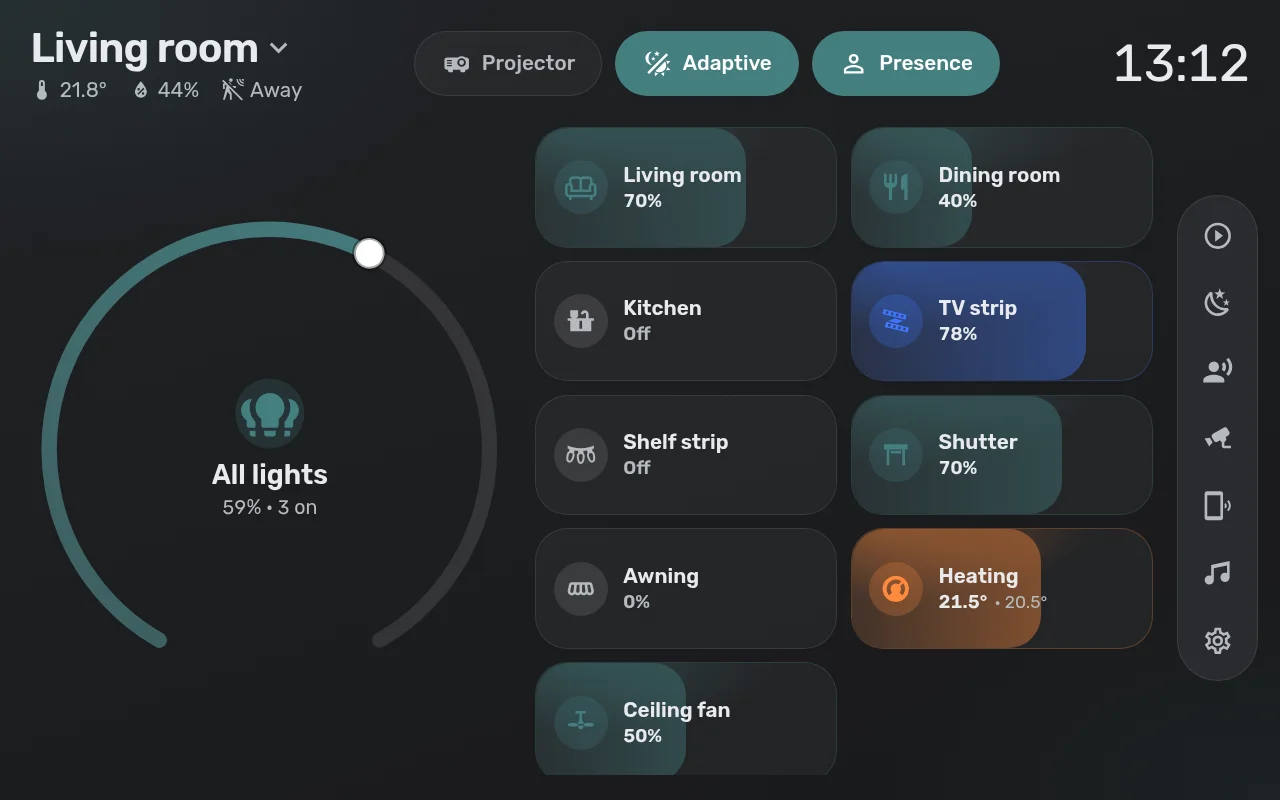
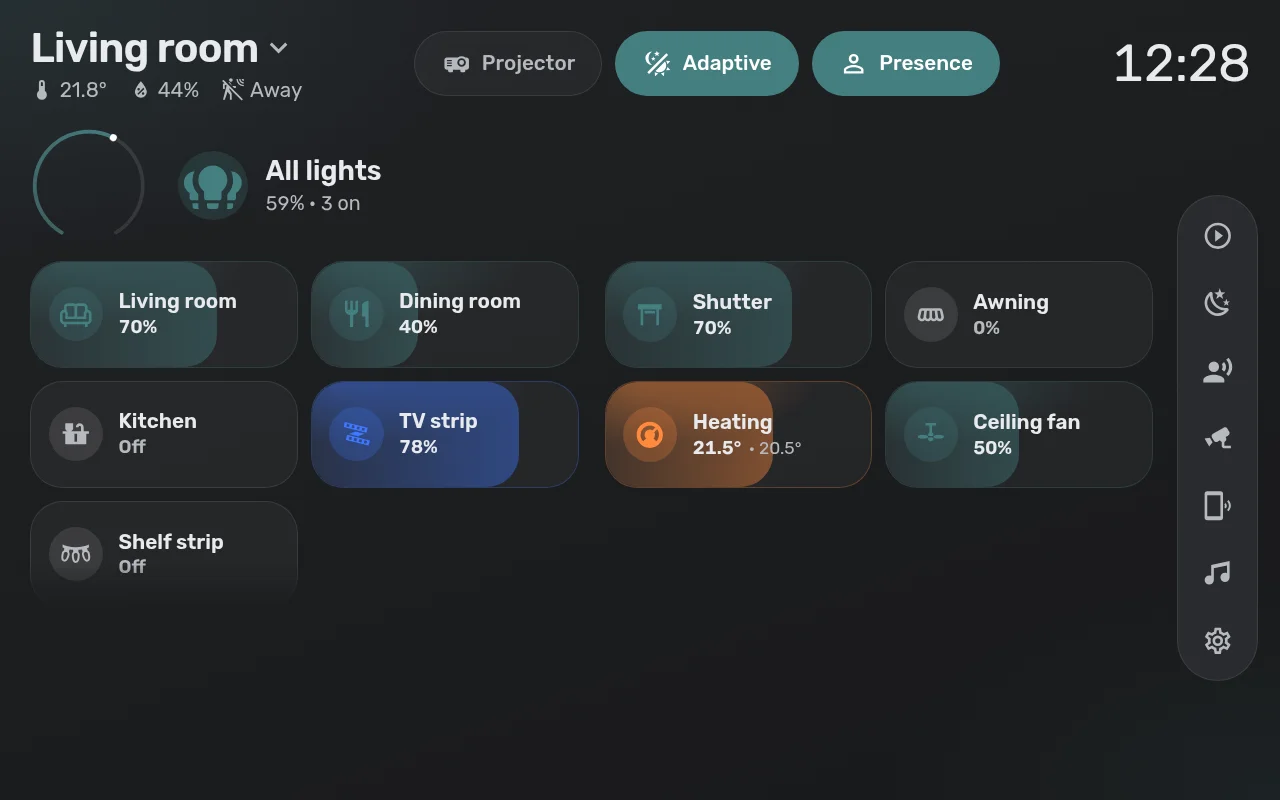
Lights apart on the Show, and tiles shown when
On the Show, a room with covers, thermostats or fans as well as lights
keeps them apart: the dial as a small ring, its light tiles under it and
above the media card, the others beside them, their rows on the same
lines; the room's events stay at the top, beside the ring. Light tiles
that run under the media card fade out until scrolled to. A single tile
is as large as one of two in a row.

Lights, covers, thermostats and fans take a showWhen, like a sensor's:
the tile shows only while it holds. On the Spot the strip pairs the tiles
shown; on the Show, with no light left to show, the others keep the grid
beside a full dial, and the lights move under it again when they show.

The documentation's screenshots are refreshed.

diff --git a/js/view.js b/js/view.js
@@ -165,8 +165,14 @@
     if (shape === 'round') {
       lights.append(...tiles);
       if (media) lights.appendChild(media);
-      // a last tile without a pair comes to rest beside the one before it, not beside the card
-      if (media && tiles.length % 2) tiles[tiles.length - 1].classList.add('alone');
+      // The tiles shown, in pairs: the first of each marked; a last one
+      // without a pair comes to rest beside the one before it, not beside the
+      // card. Again whenever a tile's showWhen shows or hides it.
+      const pairUp = () => {
+        const shown = tiles.filter((t) => !t.hidden);
+        tiles.forEach((t) => { setClass(t, 'pair', shown.indexOf(t) % 2 === 0); setClass(t, 'alone', !!media && shown.length % 2 === 1 && t === shown[shown.length - 1]); });
+        requestAnimationFrame(() => updateDots());
+      };
       // A dot for each place the strip comes to rest: each pair of tiles
       // (and the card) in the middle, as far as the strip goes. A drag across
       // a tile sets its level, so the dots move the strip: a swipe on them
@@ -199,13 +205,44 @@
         [...dots.children].forEach((d, j) => setClass(d, 'on', j === near));
       };
       if (media) media.onvisibility = () => requestAnimationFrame(updateDots);
+      pairUp();
+      new MutationObserver(pairUp).observe(lights, { attributes: true, attributeFilter: ['hidden'], subtree: true });
       let t = null;
       lights.addEventListener('scroll', () => { if (!t) t = requestAnimationFrame(() => { t = null; updateDots(); }); }, { passive: true });
       new ResizeObserver(updateDots).observe(lights);
     } else {
+      // When the room has covers, thermostats or fans too, its light tiles
+      // go under the dial, above the media card, the ring small beside the
+      // name; the grid beside holds the others.
+      // As a tile's showWhen shows or hides it, the lights move back beside
+      // the dial when they or the others have none left to show.
+      const own = (room.lights || []).length, ownTiles = tiles.slice(0, own), others = tiles.slice(own);
       if (list) lights.appendChild(list);
-      for (const t of tiles) lights.appendChild(t);
-      lights.dataset.count = String(tiles.length);
+      lights.append(...tiles);
+      if (own && others.length) {
+        const side = el('div', 'lights');
+        side.hidden = true;
+        controls.insertBefore(side, media);
+        // the grid beside starts on the line of the first light tiles, for their rows to line up
+        new ResizeObserver(() => view.style.setProperty('--beside', `${side.offsetTop - controls.offsetTop}px`)).observe(main);   // both grids' own edges alike
+        // more tiles than show fade out at the foot, until scrolled to the last
+        const more = () => setClass(side, 'more', side.scrollTop + side.clientHeight < side.scrollHeight - 2);
+        side.addEventListener('scroll', more, { passive: true });
+        new ResizeObserver(more).observe(side);
+        let apart = false;
+        const arrange = () => {
+          const shown = (t) => !t.hidden, now = ownTiles.some(shown) && others.some(shown);
+          if (now === apart) return;
+          apart = now;
+          if (apart) side.append(...ownTiles);
+          else others[0].before(...ownTiles);   // back first in the grid beside, after the events
+          side.hidden = !apart;
+          setClass(controls, 'with-lights', apart);
+          setClass(view, 'lights-left', apart);
+        };
+        arrange();
+        new MutationObserver(arrange).observe(view, { attributes: true, attributeFilter: ['hidden'], subtree: true });
+      }
     }
     view.appendChild(lights);
     // The stylesheet gives a room without modes, or with nothing but its main slider, more room.

diff --git a/css/wide.css b/css/wide.css
@@ -11,10 +11,24 @@
 .shape-wide .controls { grid-area: controls; display: flex; flex-direction: column; gap: 0.75rem; min-height: 0; }
 /* the dial takes what the media card leaves */
 .shape-wide .main { flex: 1 1 0; min-height: 4.2rem; display: grid; grid-template-rows: minmax(0, 1fr); }   /* the column's height, not its content's */
-.shape-wide .controls.with-media .main { flex: none; }
+.shape-wide .controls:is(.with-media, .with-lights) .main { flex: none; }
+/* the light tiles under the dial, above the media card, when the grid beside
+   holds the room's covers, thermostats and fans: as tall as they need, the
+   rest of them a swipe up away */
+.shape-wide .controls > .lights { flex: 0 1 auto; min-height: 0; }
+.shape-wide .controls > .lights.more { -webkit-mask-image: linear-gradient(#000 calc(100% - 2.2rem), transparent); mask-image: linear-gradient(#000 calc(100% - 2.2rem), transparent); }   /* more under the card: fading out */
+/* the two halves alike, for the tiles on either side to be of one size */
+.shape-wide .view.lights-left { grid-template-columns: minmax(0, 1fr) minmax(0, 1fr); }
+.shape-wide .app.with-rail .view.lights-left { grid-template-columns: minmax(0, 1fr) minmax(0, 1fr) calc(var(--rail-item) + 0.4rem); }
+/* the grid beside: its tiles start on the line of the first light tiles,
+   under the ring (--beside, from js/view.js), their rows side by side; the
+   room's events stay at its top, beside the ring, as tall as it */
+.shape-wide .view.lights-left > .lights { margin-top: var(--beside, 0px); }
+.shape-wide .view.lights-left.with-events > .lights { margin-top: -0.15rem; grid-template-rows: calc(var(--beside, 0px) - 0.45rem); }
+.shape-wide .view.lights-left.with-events > .lights > .events { min-height: 0; overflow: hidden; }
 /* the rail on the right: a column of its own under the header */
 .shape-wide .app.with-rail .view { grid-template-columns: minmax(0, 22rem) minmax(0, 1fr) calc(var(--rail-item) + 0.4rem); grid-template-areas: "top top top" "controls lights ."; }
-/* the tiles, two across, of one shape on every Show: two and a half times
+/* the tiles, two across (a single one too), of one shape on every Show: two and a half times
    as wide as tall (taller only for what they hold); past the screen's
    height the grid scrolls */
 .shape-wide .lights {
@@ -22,7 +36,6 @@
   overflow-y: auto; touch-action: pan-y; scrollbar-width: none; padding: 0.15rem; margin: -0.15rem;
 }
 .shape-wide .lights::-webkit-scrollbar { display: none; }
-.shape-wide .lights[data-count="1"] { grid-template-columns: minmax(0, 1fr); }
 /* a tile (lying across, view.css): a drag across it sets its level, a
    swipe up or down scrolls the grid */
 .shape-wide .lights > :where(.tile:not(.events)) { aspect-ratio: 5 / 2; min-height: min-content; touch-action: pan-y; }

diff --git a/css/view.css b/css/view.css
@@ -112,13 +112,14 @@ span.title-btn { cursor: default; }
 }
 .dial-centre .bar-text { align-items: center; max-width: 100%; }
 .dial-centre.pressed { background: var(--surface-2); transform: translate(-50%, -50%) scale(0.96); }
-/* with the media card on screen: a row, the ring small beside the name */
-.controls.with-media .bar { display: block; }
-.controls.with-media .dial.gauge { display: flex; align-items: center; gap: 0.6rem; height: auto; }
-.controls.with-media .dial.gauge > svg { width: 5.4rem; height: 5.4rem; flex: none; }
-.controls.with-media .dial-centre { position: static; transform: none; width: auto; flex: 1; flex-direction: row; justify-content: flex-start; text-align: left; gap: 0.8rem; padding: 0.5rem 0.8rem; }
-.controls.with-media .dial-centre.pressed { transform: scale(0.98); }
-.controls.with-media .dial-centre .bar-text { align-items: flex-start; }
+/* with the media card on screen, or the light tiles under it: a row, the
+   ring small beside the name */
+.controls:is(.with-media, .with-lights) .bar { display: block; }
+.controls:is(.with-media, .with-lights) .dial.gauge { display: flex; align-items: center; gap: 0.6rem; height: auto; }
+.controls:is(.with-media, .with-lights) .dial.gauge > svg { width: 5.4rem; height: 5.4rem; flex: none; }
+.controls:is(.with-media, .with-lights) .dial-centre { position: static; transform: none; width: auto; flex: 1; flex-direction: row; justify-content: flex-start; text-align: left; gap: 0.8rem; padding: 0.5rem 0.8rem; }
+.controls:is(.with-media, .with-lights) .dial-centre.pressed { transform: scale(0.98); }
+.controls:is(.with-media, .with-lights) .dial-centre .bar-text { align-items: flex-start; }
 /* the main slot: its lights stacked, the current one shown. The others wait
    faded out, a slot's width away on the side they come in from (--side, set
    by js/view.js; 0 crossfades in place), hidden from touch as well. */

diff --git a/js/controls.js b/js/controls.js
@@ -148,6 +148,8 @@
   // long-press `open`. When the tile `slide`s, a drag across it sets the
   // level where the finger is (onPreview and onCommit of a fraction), on the
   // Spot as on the Show; on the Show a swipe up or down scrolls the tiles.
+  // With a showWhen, the tile shows only while it holds (sensorIds: the
+  // entities it watches).
   function tileFrame(cfg, { icon: ic, tap, open, slide }) {
     const node = el('div', 'tile' + (slide ? ' slides' : ''));
     node.innerHTML = `<span class="tile-fill"></span><span class="tile-icon">${icon(ic)}</span>`
@@ -155,6 +157,7 @@
       + '<span class="tile-line"><span class="tile-state"></span><span class="tile-extra"></span></span>';
     if (slide) attachTrack(node, { ...slide, onTap: tap, onHold: open, lock: true });
     else attachPress(node, { onTap: tap, onHold: open });
+    if (cfg.showWhen) watch(sensorIds(cfg), () => { node.hidden = !matches(cfg.showWhen, cfg.entity); });
     return { node, iconEl: node.querySelector('.tile-icon'), stateEl: node.querySelector('.tile-state'), extraEl: node.querySelector('.tile-extra') };
   }
 

diff --git a/css/round.css b/css/round.css
@@ -107,7 +107,7 @@
 .shape-round .lights::-webkit-scrollbar { display: none; }
 .shape-round .lights::before, .shape-round .lights::after { content: ""; flex: 1 0 calc(20% - var(--gap) * 1.5); }
 .shape-round .lights > .tile { flex: none; width: 30%; margin-top: 2.3rem; }
-.shape-round .lights > .tile:nth-child(odd) { scroll-snap-align: start; }   /* the first of each pair */
+.shape-round .lights > .tile.pair { scroll-snap-align: start; }   /* the first of each pair (js/view.js) */
 .shape-round .lights > .tile.alone { scroll-snap-align: end; }   /* a last one alone, before the card: with the one before it */
 .shape-round .lights > .media { flex: none; width: calc(60% + var(--gap)); margin-top: 0.6rem; scroll-snap-align: center; }
 .shape-round .lights > :where(.tile) { padding: 0.65rem 0.55rem; column-gap: 0.45rem; touch-action: none; }   /* a drag across sets its level */

diff --git a/js/main.js b/js/main.js
@@ -43,8 +43,8 @@
       for (const s of r.sensors || []) ids.push(...sensorIds(s));
       for (const c of r.modes || []) ids.push(c.entity);
       if (r.main) ids.push(r.main.entity);
-      for (const l of r.lights || []) { ids.push(l.entity); for (const c of l.controls || []) ids.push(c); }
-      for (const c of [...(r.covers || []), ...(r.climate || []), ...(r.fans || [])]) ids.push(c.entity);
+      for (const l of r.lights || []) for (const c of l.controls || []) ids.push(c);
+      for (const c of [...(r.lights || []), ...(r.covers || []), ...(r.climate || []), ...(r.fans || [])]) ids.push(...sensorIds(c));
       if (r.media) { ids.push(r.media.entity); if (r.media.showWhen) ids.push(r.media.showWhen.entity); }
       const events = eventsOf(r);
       if (events) ids.push(...events.calendars.map((c) => c.entity));

diff --git a/config.example.js b/config.example.js
@@ -139,6 +139,8 @@ window.KIOSK_CONFIG = {
   //                  across sets the target temperature; the panel has modes and presets.
   // fans             tiles after the thermostats for fans: tap turns on or off; a drag across
   //                  sets the speed; the panel has preset modes, oscillation and direction.
+  //                  Lights, covers, thermostats and fans take a showWhen too, like a
+  //                  sensor's: the tile shows only while it holds.
   // media            a player card, shown while showWhen holds (or always)
   // player           the Music Assistant player (or group of players) the menu's
   //                  favourites play on, for the kiosks that belong to this room

diff --git a/docs/configuration.md b/docs/configuration.md
@@ -111,10 +111,11 @@ sensors: { entity, icon, unit, digits, showWhen? }
          { entity, icon, iconOff, on: 'Present', off: 'Away' }     // a binary sensor
 modes:   { entity, name, icon }
          { entity, name, icon, turnOn: 'script.a', turnOff: 'script.b' }
-main, lights: { entity, name, icon, controls?: ['select.x', 'number.y'] }
-covers:  { entity, name, icon?, iconOpen? }
-climate: { entity, name, icon? }
-fans:    { entity, name, icon? }
+main:    { entity, name, icon, controls?: ['select.x', 'number.y'] }
+lights:  { entity, name, icon, controls?: ['select.x', 'number.y'], showWhen? }
+covers:  { entity, name, icon?, iconOpen?, showWhen? }
+climate: { entity, name, icon?, showWhen? }
+fans:    { entity, name, icon?, showWhen? }
 media:   { entity, name, icon, showWhen?: { entity, state } }
 player:  'media_player.x'
 events:  { calendars: ['calendar.x' | { entity, color }], period?, max?, chip?, lines?, link? }
@@ -138,8 +139,9 @@ events:  { calendars: ['calendar.x' | { entity, color }], period?, max?, chip?, 
 
 ### Shown when
 
-`showWhen` on a sensor (or an alert, or the media card) shows it only while a state
-holds, of its own entity or of another one named with `entity`:
+`showWhen` on a sensor (or an alert, the media card, or a light's, cover's, thermostat's
+or fan's tile) shows it only while a state holds, of its own entity or of another one
+named with `entity`:
 
 ```js
 showWhen: { state: 'on' }                  // 'on' when not given; or a list: ['open', 'opening']
@@ -148,7 +150,8 @@ showWhen: { above: 1000 }                  // a number above, below, or both
 showWhen: { entity: 'input_boolean.guests', state: 'on' }   // another entity's state
 ```
 
-The example's living room shows its CO2 level only above 1000 ppm.
+The example's living room shows its CO2 level only above 1000 ppm. A tile that hides
+leaves no gap: the tiles after it move up, on the Spot the strip pairs the tiles shown.
 
 ### Alerts
 

diff --git a/CHANGELOG.md b/CHANGELOG.md
@@ -31,6 +31,9 @@ zip of the files to copy to Home Assistant ([Updating](docs/setup.md#updating)).
   turns one on or off, a drag across the tile sets its speed in the fan's own steps; the
   panel has the speed and chips for its preset modes, oscillation and direction
   ([Rooms](docs/configuration.md#rooms)).
+- **Tiles shown when**: a light, cover, thermostat or fan in your `config.js` takes a
+  `showWhen`, like a sensor's: its tile shows only while it holds, for example only while
+  the projector is on ([Shown when](docs/configuration.md#shown-when)).
 - **Icons alone on the Spot's menu**: `menu: { labels: false }` in your `config.js` leaves
   the names off the ring's buttons, which take the size of the main light's power button;
   the favourites keep theirs ([Menu](docs/configuration.md#menu)).
@@ -50,6 +53,9 @@ zip of the files to copy to Home Assistant ([Updating](docs/setup.md#updating)).
   under them, or a tap beside them, brings the next two.
 - **No arrows on the menu's folders**: Music, Settings and Find my phone open as before,
   without the small arrow in their corner.
+- **Lights apart on the Show**: in a room with covers, thermostats or fans as well, the light
+  tiles sit under the dial (a small ring beside the name) and above the media card, the
+  others beside them, their rows on the same lines.
 - **Echo Show 8**: laid out as the Show 5, larger: the page scales with the width of a
   Show as well as its height, so the dial and the tiles share the screen alike.
 

diff --git a/docs/features.md b/docs/features.md
@@ -19,7 +19,9 @@ What the page does, screen by screen. [Configuration](configuration.md) says how
   drag across it dims that light alone, long-press opens the panel. After them, the room's
   covers, thermostats and fans as tiles of their own (see *Covers, thermostats and fans*). Both grow
   to fill the screen; with the media card on, the dial shrinks to a small ring beside the
-  name.
+  name. A room with covers, thermostats or fans as well as lights keeps them apart: the
+  dial as a small ring, its light tiles under it and above the media card, the others
+  beside them, their rows on the same lines.
 - **Spot.** The dial is a thick rim along the edge of the round screen. From the top: the
   room title, the sensors and the modes as round icons; a large power button for the
   room's lights beside their name and state, faint arrows either side; under it a strip
